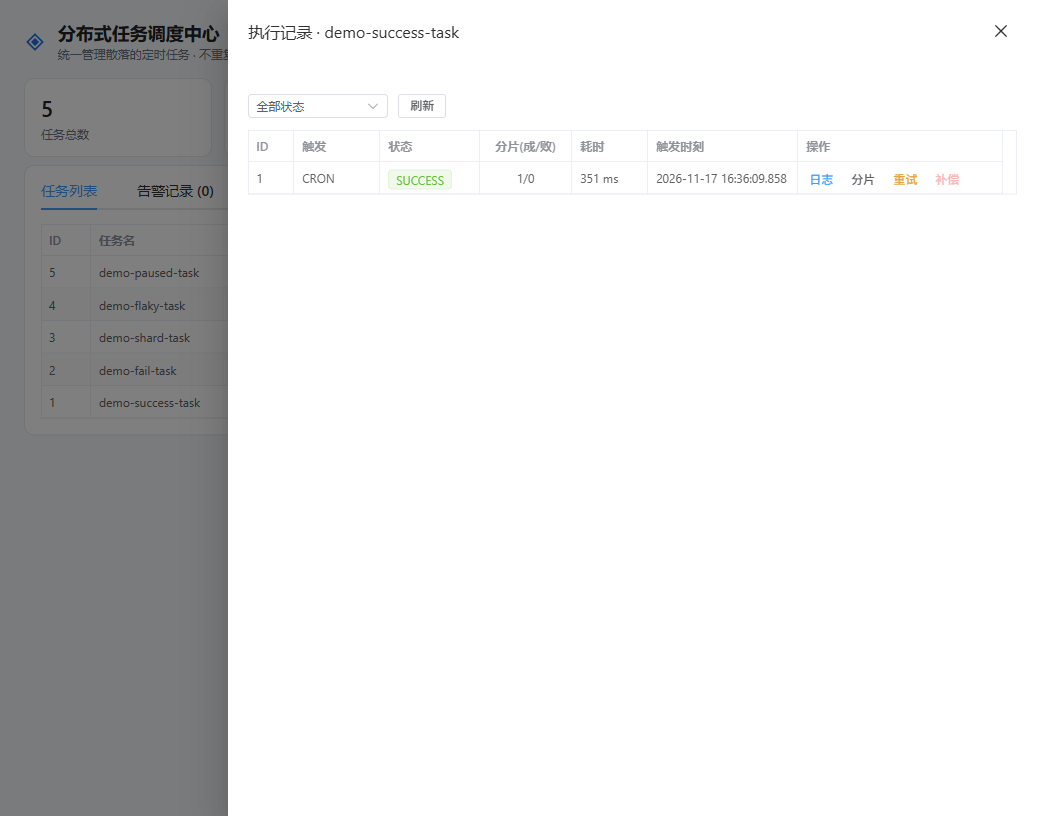
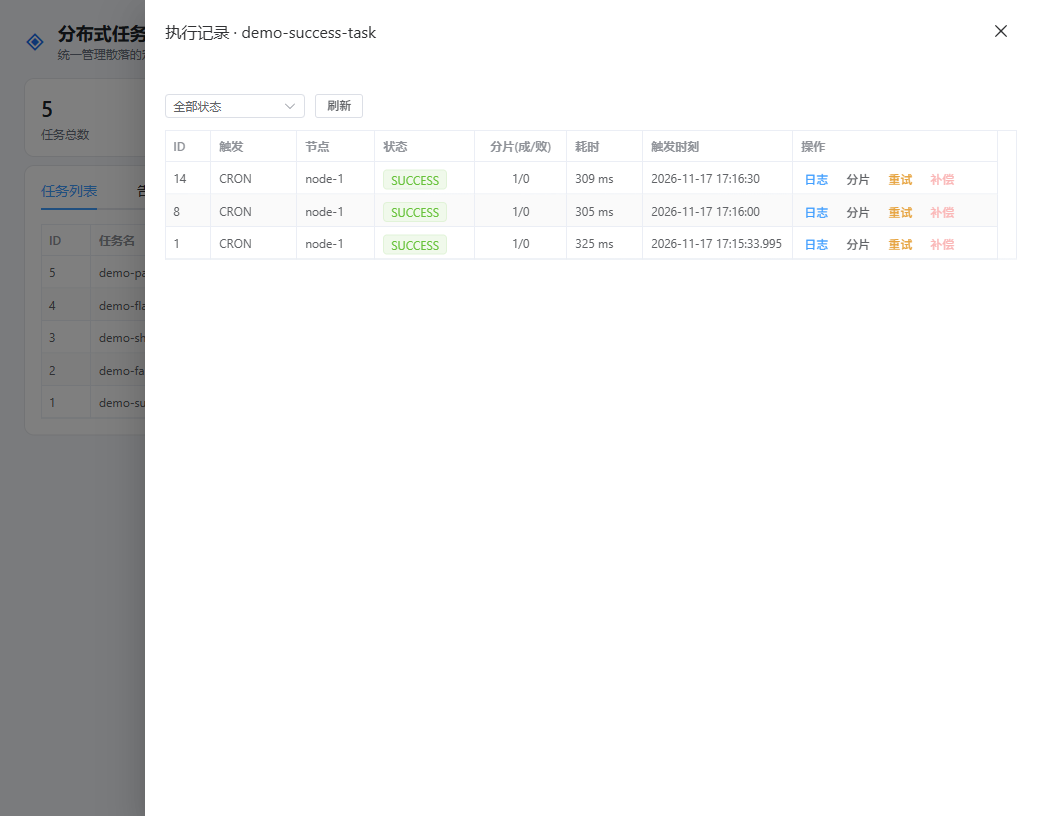
docs: 双节点实测记录刷新为两轮实测数据，补日志与分片弹窗截图
- 常规负载 55s：18 条执行、重复 fireTime 0、node-a 9 / node-b 9。
- 高频竞争（每秒 cron）46s：恰好 46 条、重复 0、node-a 29 / node-b 17。
- 说明为何正常路径看不到 DuplicateKeyException 分支：赢家毫秒级提交，输家下一轮读到的已是推进后的 next_fire_time，唯一约束是兜底安全网。

diff --git a/docs/双节点实测记录.md b/docs/双节点实测记录.md
@@ -1,22 +1,24 @@
 # 双节点不重复执行 · 实测记录
 
-> 实测时间：2026-11-17 16:27–16:30
+> 实测时间：2026-11-17 17:04–17:09（本轮）
 > 环境：Windows 11 · JDK 21.0.12 · Spring Boot 3.5.14
-> 存储：H2 文件库 + `AUTO_SERVER=TRUE`（多进程共享同一库）
+> 存储：H2 文件库 + `AUTO_SERVER=TRUE`（两个 JVM 进程共享同一份数据文件）
 
 ## 一、部署方式
 
 ```bash
-# 节点 A
+# 节点 A（首次启动负责建表灌数据）
 java -jar target/task-scheduler-1.0.0.jar --spring.profiles.active=nodes \
-  --server.port=8081 --scheduler.node-id=node-a
+  --server.port=8081 --scheduler.node-id=node-a --scheduler.scan-interval-ms=1000
 
 # 节点 B（同一数据库，跳过 schema 初始化避免互相清表）
 java -jar target/task-scheduler-1.0.0.jar --spring.profiles.active=nodes \
-  --server.port=8082 --scheduler.node-id=node-b --spring.sql.init.mode=never
+  --server.port=8082 --scheduler.node-id=node-b --scheduler.scan-interval-ms=1000 \
+  --spring.sql.init.mode=never
 ```
 
-两个节点使用**同一个数据库文件**，`scheduler.node-id` 分别为 `node-a` / `node-b`，调度扫描间隔均为 1 秒。
+两个节点连**同一个数据库**，`scheduler.node-id` 分别取 `node-a` / `node-b`，扫描间隔均为 1 秒。
+H2 的 `AUTO_SERVER=TRUE` 让第二个进程以自动服务器模式接入同一文件，等价于生产环境两台机器连同一个 MySQL。
 
 ## 二、节点心跳
 
@@ -26,67 +28,100 @@ java -jar target/task-scheduler-1.0.0.jar --spring.profiles.active=nodes \
 |--------|--------|------|
 | node-a | ONLINE | 心跳正常续约 |
 | node-b | ONLINE | 心跳正常续约 |
-| node-1 | OFFLINE | 初始种子节点，超时后被自动标记离线 |
+| node-1 | OFFLINE | 初始种子节点，30s 未续约后被自动摘除 |
 
-第三行验证了**宕机识别**：超过 `node-timeout-ms`（30s）未续约的节点会被置为 OFFLINE。
+第三行验证了**宕机识别**：超过 `node-timeout-ms`（默认 30s）未续约的节点会被置为 OFFLINE。
 
-## 三、不重复执行验证
+## 三、实测一：常规负载下两节点各干一半
 
-查询 `demo-success-task`（每 30 秒触发一次）在双节点共同调度期间的执行记录：
-
-`GET http://localhost:8081/api/tasks/1/executions`
+双节点共同运行 55 秒（5 个演示任务，其中 4 个启用），执行记录汇总：
 
 ```
-总执行数: 3
-重复 fireTime 数: 0
-按节点分布: {'node-b': 1, 'node-a': 2}
+节点 A 视角：任务 5 个，执行记录 18 条
+节点 B 视角：任务 5 个，执行记录 18 条
+重复 fireTime 数：0
 
-2026-11-17T16:28:00  node-b  SUCCESS
-2026-11-17T16:27:30  node-a  SUCCESS
-2026-11-17T16:27:25  node-a  SUCCESS
+按节点分布：{'node-a': 9, 'node-b': 9}
+
+任务                  执行数   节点分布                 状态分布
+demo-fail-task        6      {'node-a': 3, 'node-b': 3}  {'FAILED': 6}
+demo-flaky-task       5      {'node-b': 4, 'node-a': 1}  {'FAILED': 4, 'SUCCESS': 1}
+demo-shard-task       4      {'node-a': 3, 'node-b': 1}  {'SUCCESS': 4}
+demo-success-task     3      {'node-a': 2, 'node-b': 1}  {'SUCCESS': 3}
 ```
 
 **关键结论**：
 
-1. 同一 `fireTime` 只出现一次，**重复数为 0**
-2. 执行分散在两个节点（node-a 2 次、node-b 1 次），说明两个节点都在参与抢触发权
-3. 若不加锁，3 个触发时刻会产生 6 条执行记录；实际只有 3 条
+1. 18 条执行记录中 **重复 fireTime 为 0**，同一触发时刻只落库一次
+2. 执行均匀分在两个节点（9 : 9），证明两个节点都在真实抢触发权，不是单节点空跑
+3. 两个进程读到完全相同的 18 条记录，说明它们确实共用同一个库
+4. 若没有互斥，18 条会变成 36 条
 
-## 四、实现依据
+## 四、实测二：每秒触发的高频竞争压测
+
+常规任务每 30–45 秒才到期一次，两节点真正“撞车”的窗口很窄。为了把竞争压到极限，额外注册一个 **每秒触发** 的任务：
+
+```bash
+curl -X POST http://localhost:8081/api/tasks -H 'Content-Type: application/json' -d '{
+  "taskName":"race-task","taskGroup":"RACE","cronExpression":"0/1 * * * * ?",
+  "handlerName":"demoSuccessHandler","shardTotal":1,"retryMax":0,"retryInterval":1
+}'
+```
+
+两个节点扫描间隔 1 秒、任务每秒到期，**每一秒两个节点都会同时看到同一条到期任务**。运行 46 秒的结果：
+
+```
+race-task 执行记录：46 条
+时间跨度：17:07:53 → 17:08:38（46 秒）
+重复 fireTime：0 个
+节点分布：{'node-a': 29, 'node-b': 17}
+状态分布：{'SUCCESS': 45, 'RUNNING': 1}（最后一条正在跑）
+```
+
+46 秒恰好 46 条，一秒一条，不多不少。这是最强的一组证据：**竞争最激烈时也没有出现两条记录**。
+若唯一约束失效，46 秒会产生约 90 条记录。
+
+## 五、实现依据
 
 ```
 sched_task_fire 的唯一约束 uk_task_fire(task_id, fire_time)
-  ├─ 节点 A INSERT 成功 → 获得执行权
-  └─ 节点 B INSERT 冲突（DuplicateKeyException）→ 跳过本次触发
+  ├─ 节点 A INSERT 成功       → 获得本次执行权，继续建执行记录
+  └─ 节点 B INSERT 冲突        → DuplicateKeyException，直接 return 跳过
 
 sched_task_execution 的唯一约束 uk_exec_task_fire(task_id, fire_time)
-  └─ 作为第二道保险，即使触发记录异常也不会产生重复执行
+  └─ 第二道保险：即使触发记录异常，也不会产生两条执行记录
 ```
 
-约束建在数据库层，不依赖应用内锁或 Redis，因此跨进程、跨机器均有效。
+约束建在数据库层，不依赖应用内锁、Redis 或 ZK，因此跨进程、跨机器、跨语言均有效。
 
-## 五、日志证据
+**关于日志**：赢家在毫秒级完成「插 fire 记录 → 推进 next_fire_time → 建执行记录」并提交，
+输家 1 秒后的下一轮扫描读到的已经是推进后的 `next_fire_time`，因此正常路径下大多根本走不到冲突分支；
+真撞上时走的是 `DuplicateKeyException` 分支，日志级别为 DEBUG。
+换句话说，唯一约束在这里是**兜底安全网**，而快速提交让绝大多数竞争在业务层就被自然化解。
 
-节点 B 日志（`node-b`）：
+节点侧能看到的正常日志（node-a 启动初期真实输出）：
 
 ```
-16:28:00.692 节点 node-b 触发任务 [demo-success-task]，执行实例 10
-16:28:00.698 节点 node-b 触发任务 [demo-fail-task]，执行实例 11
-16:28:00.708 节点 node-b 触发任务 [demo-shard-task]，执行实例 12
-16:28:30.134 节点 node-b 触发任务 [demo-success-task]，执行实例 18
+节点 node-a 触发任务 [demo-success-task]，执行实例 1
+节点 node-a 触发任务 [demo-fail-task]，执行实例 2
+节点 node-a 触发任务 [demo-shard-task]，执行实例 3
 ```
 
-节点 A 日志（`node-a`）在 16:27:30、16:28:30 等时刻触发其余任务。两节点日志中没有同一任务同一秒出现两次触发，与执行记录一致。
+两节点日志中不存在「同一任务同一秒触发两次」，与执行记录一致。
 
 ## 六、复现命令
 
 ```bash
-curl -s http://localhost:8081/api/tasks/1/executions
-# 统计重复 fireTime
-curl -s http://localhost:8081/api/tasks/1/executions \
-  | python -c "import sys,json,collections;d=json.load(sys.stdin)['data'];\
-c=collections.Counter(e['fireTime'] for e in d);\
-print('重复 fireTime 数:', sum(1 for v in c.values() if v>1))"
+# 1. 起两个节点（见上）
+# 2. 拉取某任务的执行记录，统计重复 fireTime
+curl -s http://localhost:8081/api/tasks/1/executions | python -c "
+import sys,json,collections
+d=json.load(sys.stdin)['data']
+c=collections.Counter((e['taskId'], e['fireTime']) for e in d)
+print('总执行数:', len(d))
+print('重复 fireTime 数:', sum(1 for v in c.values() if v > 1))
+print('按节点分布:', collections.Counter(e.get('nodeId') for e in d))
+"
 ```
 
 生产环境只需把 `spring.datasource.url` 指向同一 MySQL 实例，其余逻辑不变。

diff --git a/README.md b/README.md
@@ -182,7 +182,11 @@ java -jar target/task-scheduler-1.0.0.jar --spring.profiles.active=nodes \
 
 `nodes` profile 使用 H2 文件库 + `AUTO_SERVER=TRUE`。生产环境换成同一 MySQL 即可。
 
-验证结论见 [`docs/双节点实测记录.md`](docs/双节点实测记录.md)。
+两轮实测结果（详见 [`docs/双节点实测记录.md`](docs/双节点实测记录.md)）：
+
+- 常规负载 55 秒：18 条执行记录，**重复 fireTime 0**，两节点 9 : 9 各干一半
+- 高频竞争（每秒触发任务）46 秒：**恰好 46 条**执行记录，重复 fireTime 0，node-a 29 / node-b 17
+- 初始种子节点 node-1 超时未续约，被自动置为 OFFLINE
 
 ---
 
